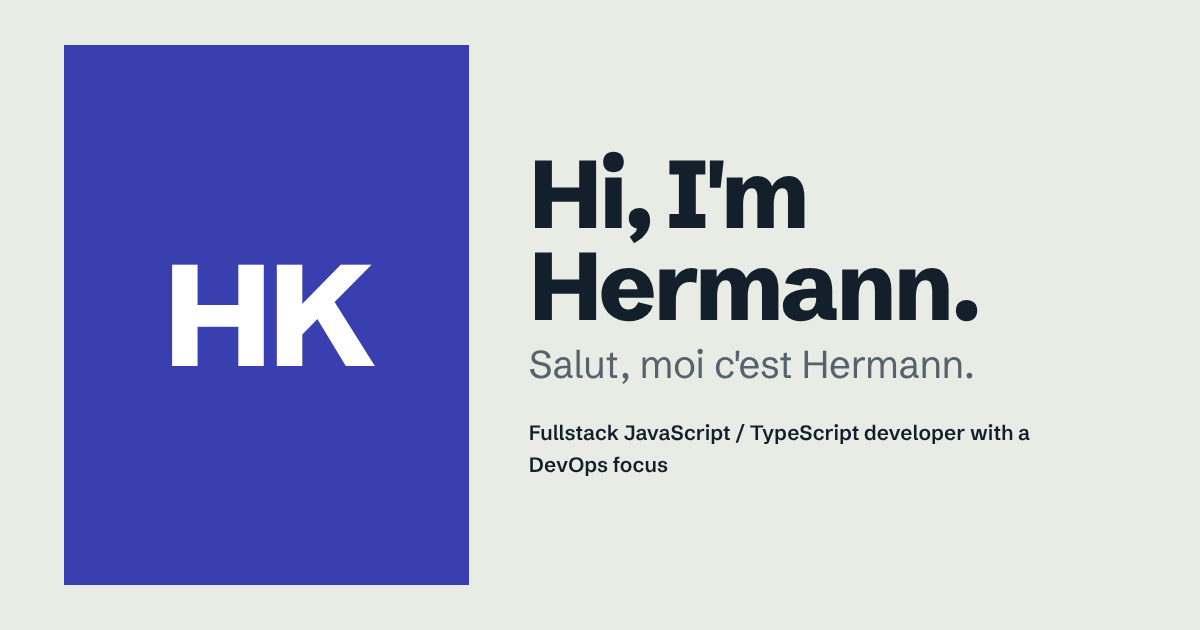
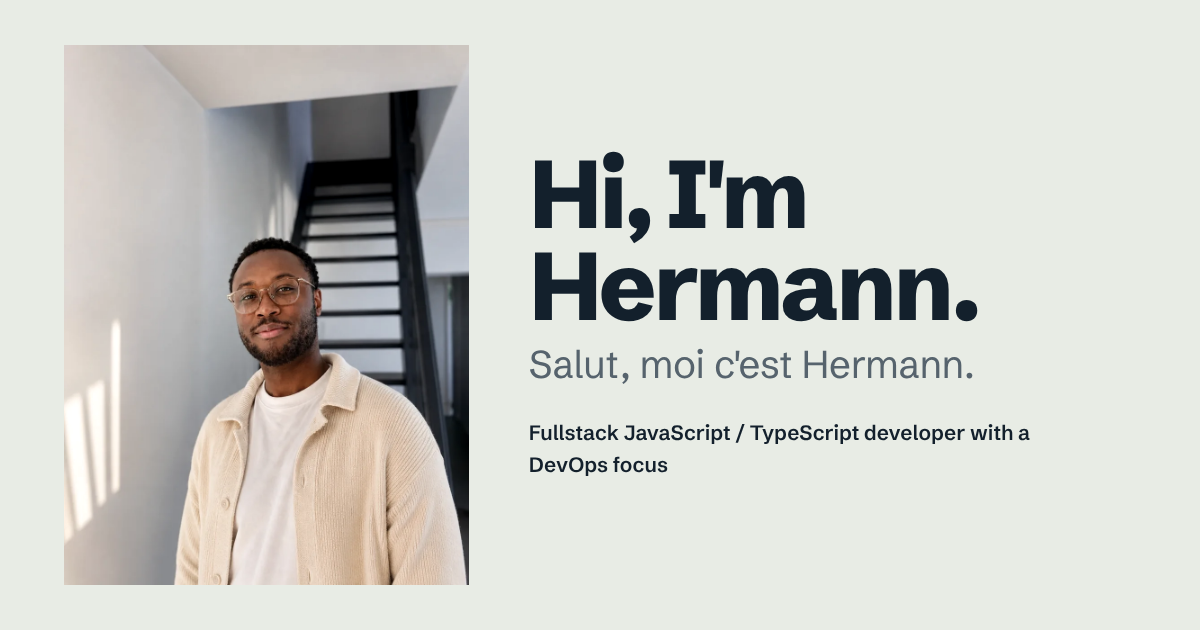
Ajoute la photo de profil (JPEG + WebP) et l'image de partage
Le cercle de transition au scroll est recentré sur le visage.

Claude-Session: https://claude.ai/code/session_019cDVDA7rY8ABStusutsjNT

Changed region(s): [[0.0308, 0.0603, 0.4008, 0.9349]]

diff --git a/src/styles/global.css b/src/styles/global.css
@@ -90,9 +90,10 @@ a:hover { color: var(--indigo); }
   max-width: 460px;
   justify-self: end;
   background: var(--paper-2);
-  clip-path: circle(80% at 50% 45%);
+  clip-path: circle(80% at 52% 46%);
   will-change: clip-path, transform;
 }
+.hero__photo picture { display: contents; }
 .hero__photo img { width: 100%; height: 100%; object-fit: cover; display: block; filter: grayscale(0.15) contrast(1.02); }
 .hero__monogram {
   width: 100%; height: 100%; display: grid; place-items: center;
@@ -204,7 +205,7 @@ a:hover { color: var(--indigo); }
   .hello__other { animation-delay: 0.35s; }
   .hero__photo { animation-name: reveal; animation-duration: 0.9s; }
   @keyframes rise { from { opacity: 0; transform: translateY(0.35em); } }
-  @keyframes reveal { from { clip-path: circle(0% at 50% 45%); } }
+  @keyframes reveal { from { clip-path: circle(0% at 52% 46%); } }
 
   @supports (animation-timeline: view()) {
     /* Les timelines sont déclarées dans des règles séparées : le minifieur fusionne sinon tout
@@ -214,7 +215,7 @@ a:hover { color: var(--indigo); }
     .hero__photo { animation: reveal 0.9s cubic-bezier(0.2, 0.7, 0.1, 1) both, to-node linear both; }
     .hero .hero__photo { animation-timeline: auto, view(); animation-range: normal, exit 0% exit 90%; }
     @keyframes to-node {
-      to { clip-path: circle(22% at 50% 45%); transform: translateY(30%) scale(0.75); opacity: 0.35; }
+      to { clip-path: circle(22% at 52% 46%); transform: translateY(30%) scale(0.75); opacity: 0.35; }
     }
 
     /* Les branches se tracent au fil du scroll. */
